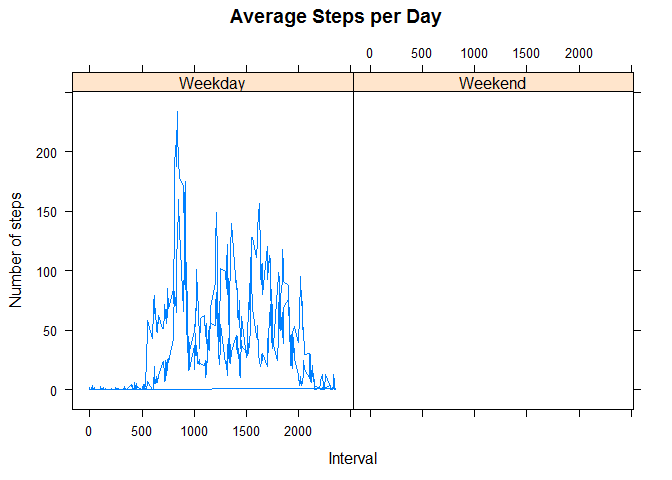
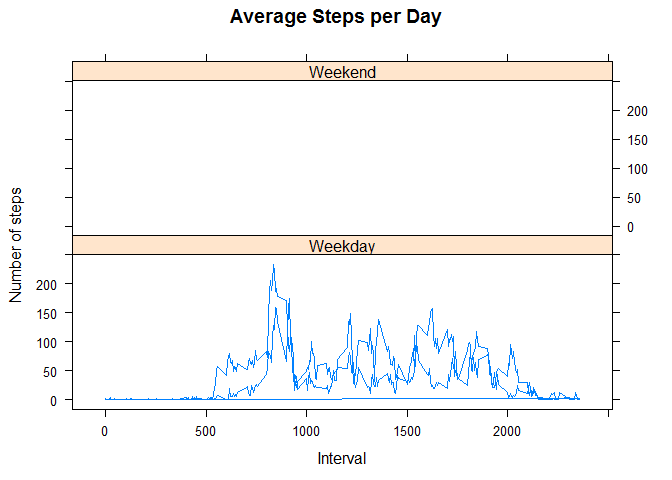
Addtional information added

diff --git a/PA1_template.html b/PA1_template.html
@@ -125,7 +125,7 @@ if (window.hljs && document.readyState && document.readyState === "complete") {
 <p>Devise a strategy for filling in all of the missing values in the dataset.</p>
 </blockquote>
 <blockquote>
-<p>The strategy does not need to be sophisticated. For example, you could use the mean/median for that day, or the mean for that 5-minute interval,etc<br />Na replaced by mean in 5 min interval.</p>
+<p>The strategy does not need to be sophisticated. For example, you could use the mean/median for that day, or the mean for that 5-minute interval,etc<br />Missing data -Na replaced by mean in 5 min interval.</p>
 </blockquote>
 <pre class="r"><code>      AverageVal &lt;- aggregate(steps ~ interval, data = activity, FUN = mean)
       fillNA &lt;- numeric()
@@ -139,7 +139,7 @@ if (window.hljs && document.readyState && document.readyState === "complete") {
       fillNA &lt;- c(fillNA, steps)
 }</code></pre>
 <blockquote>
-<p>Create new dataset with missing data filled with mean value.</p>
+<p>Missing Data -Create new dataset with missing data filled with mean value.</p>
 </blockquote>
 <pre class="r"><code>    new_data &lt;- activity
     new_data$steps &lt;- fillNA    </code></pre>
@@ -184,8 +184,8 @@ if (window.hljs && document.readyState && document.readyState === "complete") {
 <blockquote>
 <p>Panel plot containing a time series plot of the 5-minute interval (x-axis). and the average number of steps taken, averaged across all weekday days or weekend days. (y-axis).</p>
 </blockquote>
-<pre class="r"><code>     xyplot(steps ~ interval | dayIndicator, dayPatterns, main=&quot;Average Steps per Day&quot;,type = &quot;l&quot;, layout = c(2, 1), xlab = &quot;Interval&quot;, ylab = &quot;Number of steps&quot; )</code></pre>
[1 lines of base64/hex data omitted]
+<pre class="r"><code>     xyplot(steps ~ interval | dayIndicator,dayPatterns, main=&quot;Average Steps per Day&quot;,type = &quot;l&quot;,  xlab = &quot;Interval&quot;, ylab = &quot;Number of steps&quot;,layout = c(1, 2) )</code></pre>
[1 lines of base64/hex data omitted]
 </div>
 
 

diff --git a/PA1_template.md b/PA1_template.md
@@ -98,7 +98,7 @@
 
 > The strategy does not need to be sophisticated. For example, you could use the mean/median
 > for  that day, or the mean for that 5-minute interval,etc    
-> Na replaced by mean in 5 min interval.    
+> Missing data -Na replaced by mean in 5 min interval.    
 
 
 ```r
@@ -114,7 +114,7 @@
       fillNA <- c(fillNA, steps)
 }
 ```
-> Create new dataset  with missing data filled with mean value.  
+> Missing Data -Create new dataset  with missing data filled with mean value.  
 
 
 
@@ -191,7 +191,7 @@
 
 
 ```r
-     xyplot(steps ~ interval | dayIndicator, dayPatterns, main="Average Steps per Day",type = "l", layout = c(2, 1), xlab = "Interval", ylab = "Number of steps" )
+     xyplot(steps ~ interval | dayIndicator,dayPatterns, main="Average Steps per Day",type = "l",  xlab = "Interval", ylab = "Number of steps",layout = c(1, 2) )
 ```
 
 ![](PA1_template_files/figure-html/unnamed-chunk-14-1.png) 
